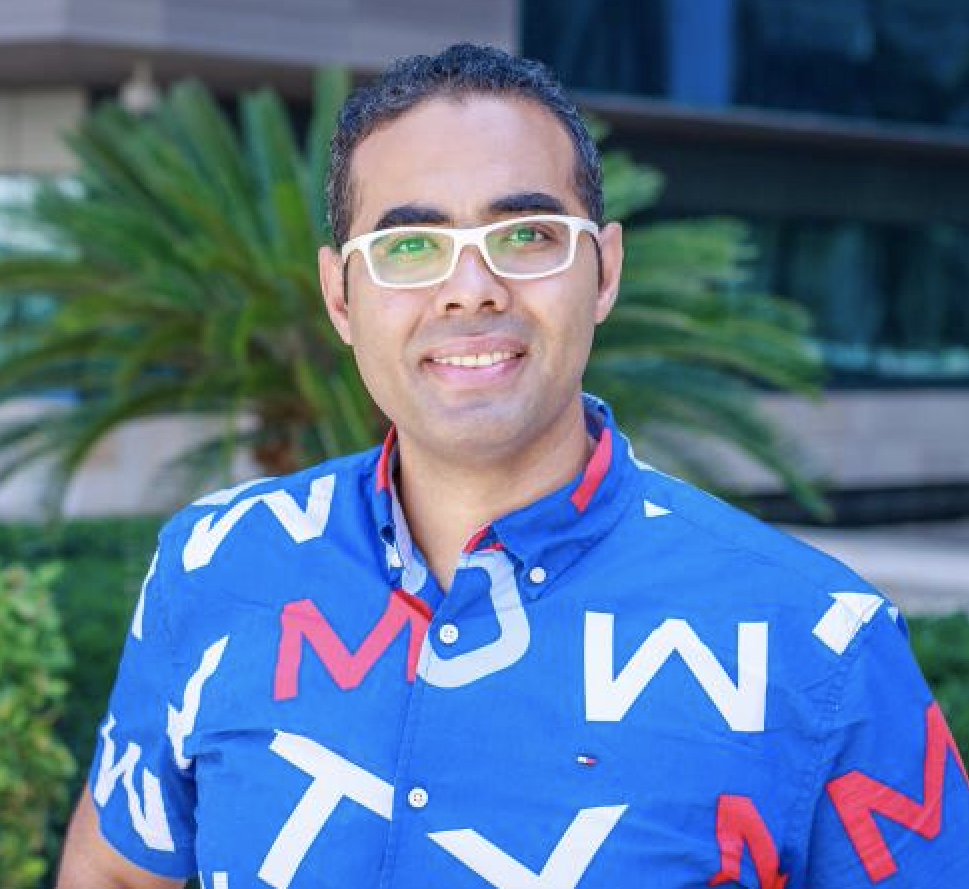
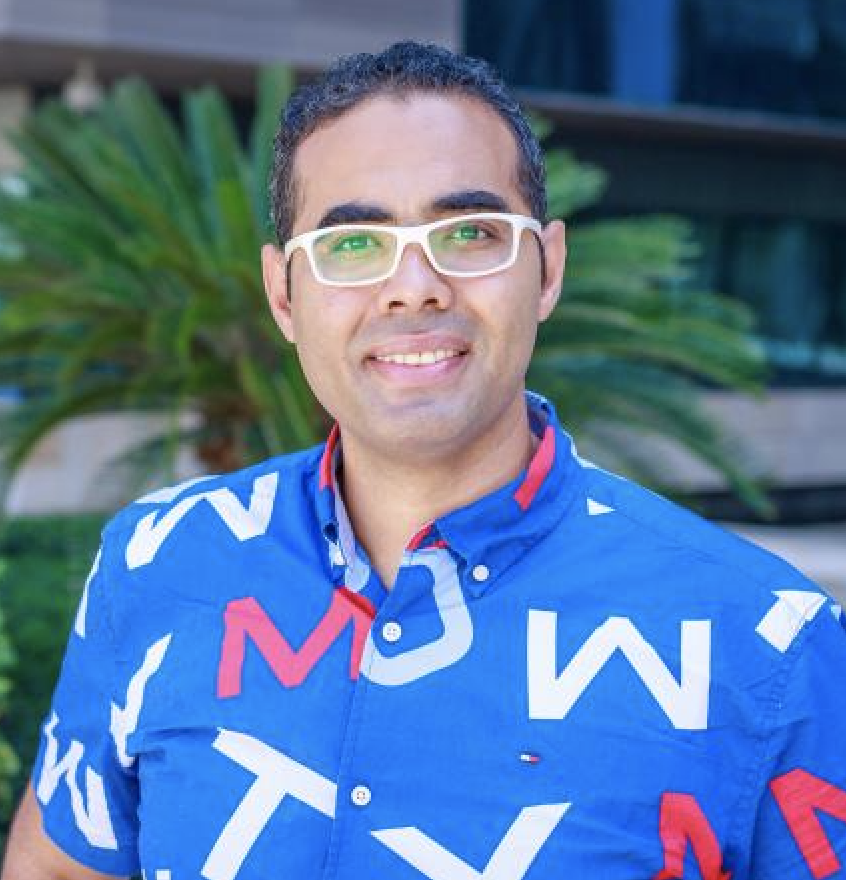
change invited spearkers pic

diff --git a/3_workshop2020.md b/3_workshop2020.md
@@ -132,7 +132,7 @@ feature-img: "assets/img/main.png"
   <br>
 	
   <li>
-      <img class="member-profile" src="/assets/img/workshop/2020_invited_speakers/adriana.jpeg" align="left">
+      <img class="member-profile" src="/assets/img/workshop/2020_invited_speakers/adriana.jpg" align="left">
       <a href="http://people.cs.pitt.edu/~kovashka/">Adriana Kovashka</a>, University of Pittsburgh <br>
 	  <b>Title: Reasoning about Complex Media from Weak Multi-modal Supervision</b><br>
 	  Abstract: In a world of abundant information targeting multiple senses, and increasingly powerful media, we need new mechanisms to model content. Techniques for representing individual channels, such as visual data or textual data, have greatly improved, and some techniques exist to model the relationship between channels that are “mirror images” of each other and contain the same semantics. However, multimodal data in the real world contains little redundancy; the visual and textual channels complement each other. We examine the relationship between multiple channels in complex media, in two domains, advertisements and political articles. We develop a large annotated dataset of advertisements and public service announcements, covering almost forty topics (ranging from automobiles and clothing, to health and domestic violence). We pose decoding the ads as automatically answering the questions “What should do viewer do, according to the ad” (the suggested action), and “Why should the viewer do the suggested action, according to the ad” (the suggested reason). We collect annotations and train a variety of algorithms to choose the appropriate action-reason statement, given the ad image and potentially a slogan embedded in it. The task is challenging because of the great diversity in how different users annotate an ad, even if they draw similar conclusions. One approach mines information from external knowledge bases, but there is a plethora of information that can be retrieved yet is not relevant. We show how to automatically transform the training data in order to focus our approach’s attention to relevant facts, without relevance annotations for training. We also present an approach for learning to recognize new concepts given supervision only in the form of noisy captions. Next, we collect a dataset of multimodal political articles containing lengthy text and a small number of images. We learn to predict the political bias of the article, as well as perform cross-modal retrieval. To better understand political bias, we use generative modeling to show how the face of the same politician appears differently at each end of the political spectrum. To understand how image and text contribute to persuasion and bias, we learn to retrieve sentences for a given image, and vice versa. The task is challenging because unlike image-text in captioning, the images and text in political articles overlap in only a very abstract sense. To better model the visual domain, we leverage the semantic domain. Specifically, when performing retrieval, we impose a loss requiring images that correspond to similar text to live closeby in a projection space, even if they appear very diverse purely visually. We show that our loss significantly improves performance in conjunction with a variety of existing recent losses.
